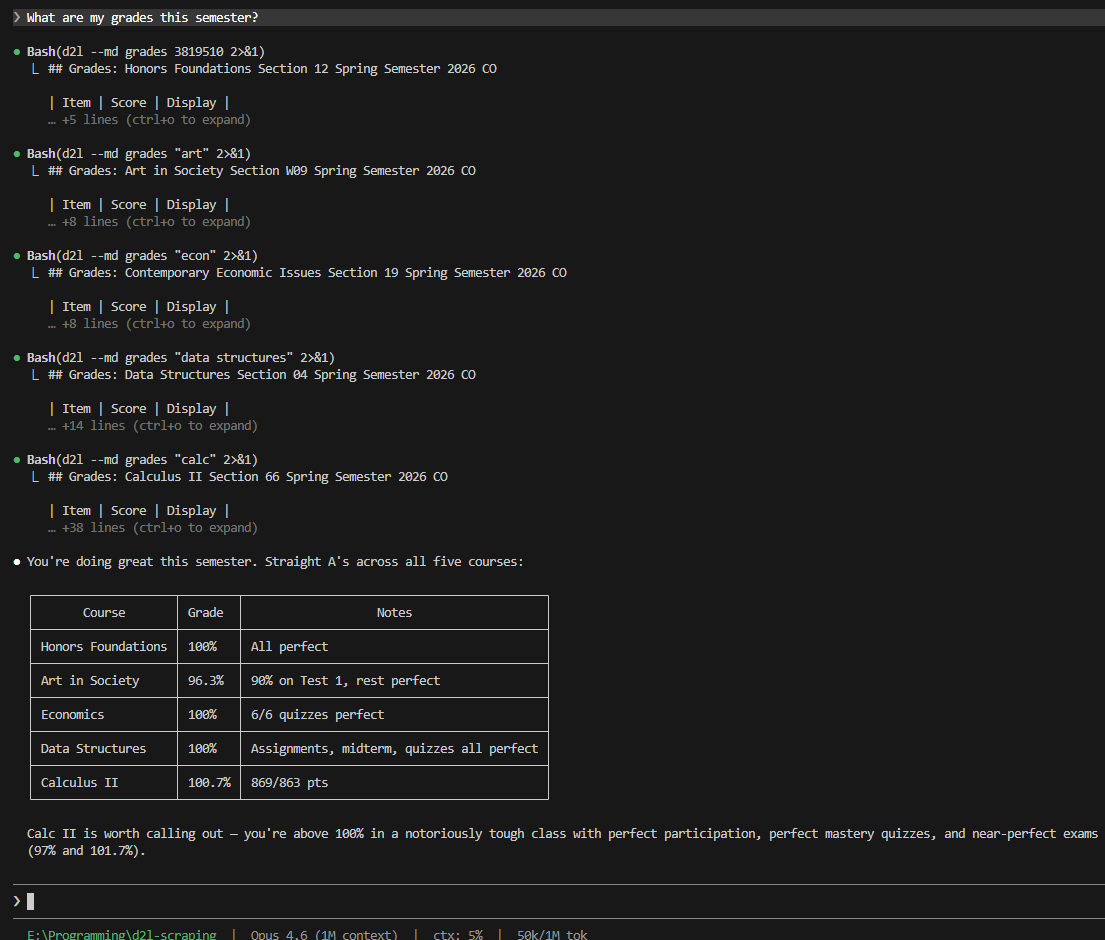
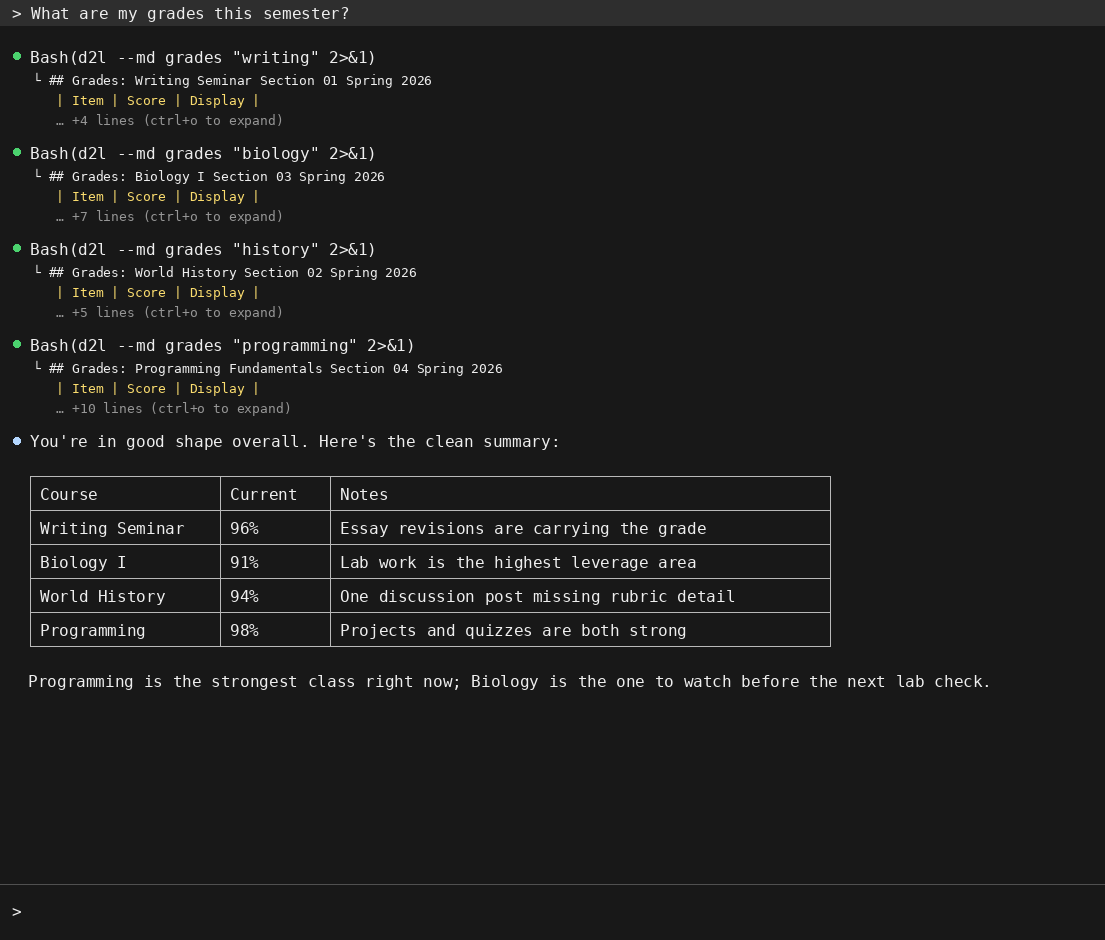
chore: prepare repo for public PR

diff --git a/src/d2l/commands/auth_cmd.py b/src/d2l/commands/auth_cmd.py
@@ -209,9 +209,9 @@ def login(headless):
         )
         raise SystemExit(1)
 
-    from d2l.config import TOKEN_DIR, TOKEN_FILE, BROWSER_PROFILE
+    from d2l.config import LMS_HOST, TOKEN_DIR, TOKEN_FILE, BROWSER_PROFILE
 
-    d2l_url = "https://kennesaw.view.usg.edu/d2l/home"
+    d2l_url = f"{LMS_HOST.rstrip('/')}/d2l/home"
     captured_token = None
     captured_claims = None
 

diff --git a/README.md b/README.md
@@ -290,7 +290,7 @@ Token expires every ~1 hour. Just run `d2l login` again — your SSO session coo
 
 ## Strictly Read-Only
 
-This tool only performs GET requests. It cannot submit assignments, post discussions, modify grades, or change anything on D2L. By design.
+Course-data commands are read-only. The CLI cannot submit assignments, post discussions, modify grades, or change anything on D2L. By design.
 
 ## Disclaimer
 